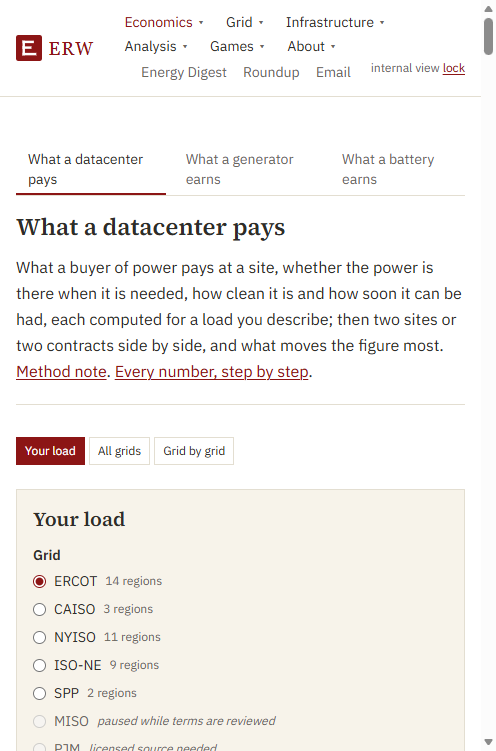
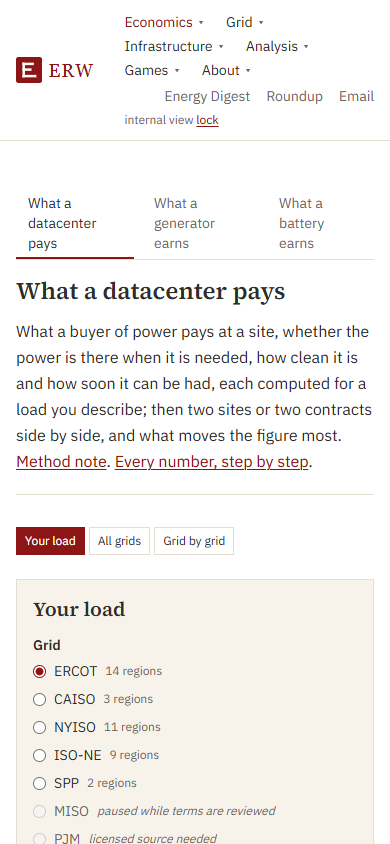
Sessions 1495 and 1497 to 1499: the phone's width by the device metrics (the walks' 481 px was the headless window's, corrected in the three documents); the explorers' browser check (14 of 14, 0 findings) and screenshots

diff --git a/tests/test_session1497.py b/tests/test_session1497.py
@@ -11,7 +11,7 @@ ROOT = os.path.dirname(os.path.dirname(os.path.abspath(__file__)))
 class ThePaths(unittest.TestCase):
     def test_every_step_has_its_screenshot(self):
         shots = set(os.listdir(os.path.join(ROOT, "docs", "brand", "review-1497")))
-        for name, prefix in (("trader-1497.json", "trader"), ("onenergy-1497.json", "onenergy"), ("lab-1497.json", "lab")):
+        for name, prefix in (("trader-1497.json", "trader"), ("onenergy-1497.json", "onenergy"), ("lab-1497.json", "lab"), ("explore-1497.json", "explore")):
             with open(os.path.join(ROOT, "docs", "reviews", "paths", name), encoding="utf-8") as f:
                 steps = json.load(f)["steps"]
             for s in steps:
@@ -34,6 +34,8 @@ class ThePaths(unittest.TestCase):
         self.assertIn('import { withBrowser } from "./browser.mjs";', js)
         self.assertIn("It reads only.", js)
         self.assertNotIn("method: \"POST\"", js)
+        # the phone's width by the device metrics (a headless window alone stays near 480 px wide)
+        self.assertIn('Emulation.setDeviceMetricsOverride", { width: 390, height: 844, deviceScaleFactor: 1, mobile: true }', js)
 
 
 if __name__ == "__main__":

diff --git a/docs/reviews/trader-path.md b/docs/reviews/trader-path.md
@@ -261,7 +261,7 @@ Session 1497 walked twelve of the sixteen steps again on 6 November 2026, about 
 
 | Step | What the page showed first (1280) | Against 22 October (session 585) | Broken |
 |---|---|---|---|
-| 01 | solar at the hub average: 23.27 against 32.17, 72 percent; 59.85 USD per kW | the same | at 390 px the page's scroll width is 481: wider than a phone (row 1 below) |
+| 01 | solar at the hub average: 23.27 against 32.17, 72 percent; 59.85 USD per kW | the same | none (at 390 px the page fits: scroll width 390) |
 | 02 | wind: 27.60 against 32.17, 86 percent; 83.57 | the same | none |
 | 03 | the West hub: 23.86 against 30.63, 78 percent; 72.23; the premium -6.76 | the same | none |
 | 05 | CAISO wind at SP15: 25.89 against 28.54, 91 percent; 64.04 | the same | none |
@@ -276,6 +276,6 @@ Session 1497 walked twelve of the sixteen steps again on 6 November 2026, about 
 
 What the walk found:
 
-1. **Not fixed, for a layout session**: at 390 px the generator page (step 01) scrolls to 481 px. A phone sees a sideways scroll on the page's first screen. This chain changes no layout; listed in chain 158's note for the brand's sessions.
+1. **At 390 px the pages fit** (scroll width 390, measured with the device metrics of a phone, as `check-explorers.mjs` does). A first measurement with a headless window alone read 481 px; a headless window does not go under about 480 px, so that reading was the script's, not the page's, and was corrected the same session.
 2. **Not fixed, for the data machine**: every figure of the generator and battery pages is what it was on 22 October, and the battery page's last twelve months are still October 2025 to September 2026 on 6 November. October 2026 is over, but the page takes a month only when the table holds it whole, so `battery_stack_monthly` (and the generator's capture table) do not yet hold October whole. The pages are right to wait; the tables are the data machine's.
 3. Nothing else: no figure missing, no hover or link broken in the steps read, no error in a page.

diff --git a/docs/reviews/lab-path.md b/docs/reviews/lab-path.md
@@ -9,7 +9,7 @@ Energy Research Warehouse (ERW), session 1499, chain 158 (`queue/done/158-day-6-
 - Address: `/cost-of-power` (ERCOT's LZ_NORTH, a flat load bought in real time, 100 MW).
 - What the reader sees first: the last twelve months (November 2025 to October 2026) cost **USD 34.07 per MWh**, USD 29.84 million for 100 MW, **USD 0.0691 a GPU-hour**. Beside them, the hub average's day-ahead basis band of November 2025: p10 -6.93, median -0.42, p90 8.66.
 - Shots: [lab-01-1280.png](../brand/review-1497/lab-01-1280.png), [lab-01-390.png](../brand/review-1497/lab-01-390.png).
-- Broken: at 390 px the page scrolls to 481 px, as the generator and battery pages do.
+- Broken: none (at 390 px the page fits: scroll width 390).
 - The replication a reader runs: `replication/datacenter/` (13 of 14 of the page's figures; the one difference is the carbon over the hourly window, session 1491).
 
 ## Step 2: bought day-ahead
@@ -44,7 +44,7 @@ Energy Research Warehouse (ERW), session 1499, chain 158 (`queue/done/158-day-6-
 
 ## What the walk found
 
-1. **Not fixed, for a layout session**: the datacenter page is 481 px wide at 390 px, as the generator and battery pages are. One cause is likely shared by the three tools' frame; this chain changes no layout.
+1. At 390 px the page fits (scroll width 390, measured with a phone's device metrics; a first reading of 481 px with a headless window alone was the script's, and corrected).
 2. **For the owner's reading**: the Ask page's first heading is the data panel's ("The Lower 48 states"), not the page's own name. A reader arriving from the menu sees a grid's name first.
 3. Nothing else: every step loaded with no error, and every figure read is the page's keyed figure.
 

diff --git a/docs/reviews/onenergy-walkthrough.md b/docs/reviews/onenergy-walkthrough.md
@@ -11,7 +11,7 @@ Energy Research Warehouse (ERW), session 1498, chain 158 (`queue/done/158-day-6-
 - Address: `/cost-of-power/battery` (ERCOT, 4 hours, perfect foresight, 100 MW; scenario A at the page's defaults).
 - What the reader sees first: the last twelve months (October 2025 to September 2026) earned **USD 81.40 per kW**, 33 percent of it from ancillary services, covering the debt **2.63 times**. USD 8.14 million for 100 MW; a bad month of USD 475,477 among 36.
 - Shots: [onenergy-01-1280.png](../brand/review-1497/onenergy-01-1280.png), [onenergy-01-390.png](../brand/review-1497/onenergy-01-390.png).
-- Broken: at 390 px the page scrolls to 481 px, wider than a phone.
+- Broken: none (at 390 px the page fits: scroll width 390).
 
 ## Step 2: the same battery on the day-ahead schedule
 
@@ -67,7 +67,7 @@ Energy Research Warehouse (ERW), session 1498, chain 158 (`queue/done/158-day-6-
 
 ## What the walk found
 
-1. **Not fixed, for a layout session**: the battery page, like the generator page, is 481 px wide at 390 px. This chain changes no layout.
+1. At 390 px the page fits (scroll width 390, measured with a phone's device metrics; a first reading of 481 px with a headless window alone was the script's, and corrected).
 2. **Not fixed, for the data machine**: the last twelve months are still October 2025 to September 2026 on 6 November (the trader path's row 2 of the same day).
 3. Nothing else: every step loaded with no error, every scenario figure is the page's keyed cell, and both downloads answer.
 

diff --git a/archive/sessions/SESSION_1495_REPORT.md b/archive/sessions/SESSION_1495_REPORT.md
@@ -19,3 +19,8 @@ Energy Research Warehouse (ERW), session 1495, chain 158, samueloldlaptop, 6 Nov
 ## For Samuel's ruling
 
 - None.
+
+## Done later the same morning (during session 1499, on the local build of main at `04623251`)
+
+- `site/scripts/check-explorers.mjs http://localhost:3897`: **exit 0, 14 of 14 explorer views read, 0 findings**. Every figure has its source in its hover, every chart answers a hover with a card, and every view fits 390 px.
+- Screenshots of the three explorers' default views at 1280 and of the peak premium's at 390 (device metrics of a phone): `docs/brand/review-1497/explore-<pp|dg|ic>-1280.png`, `explore-pp-390.png`.
